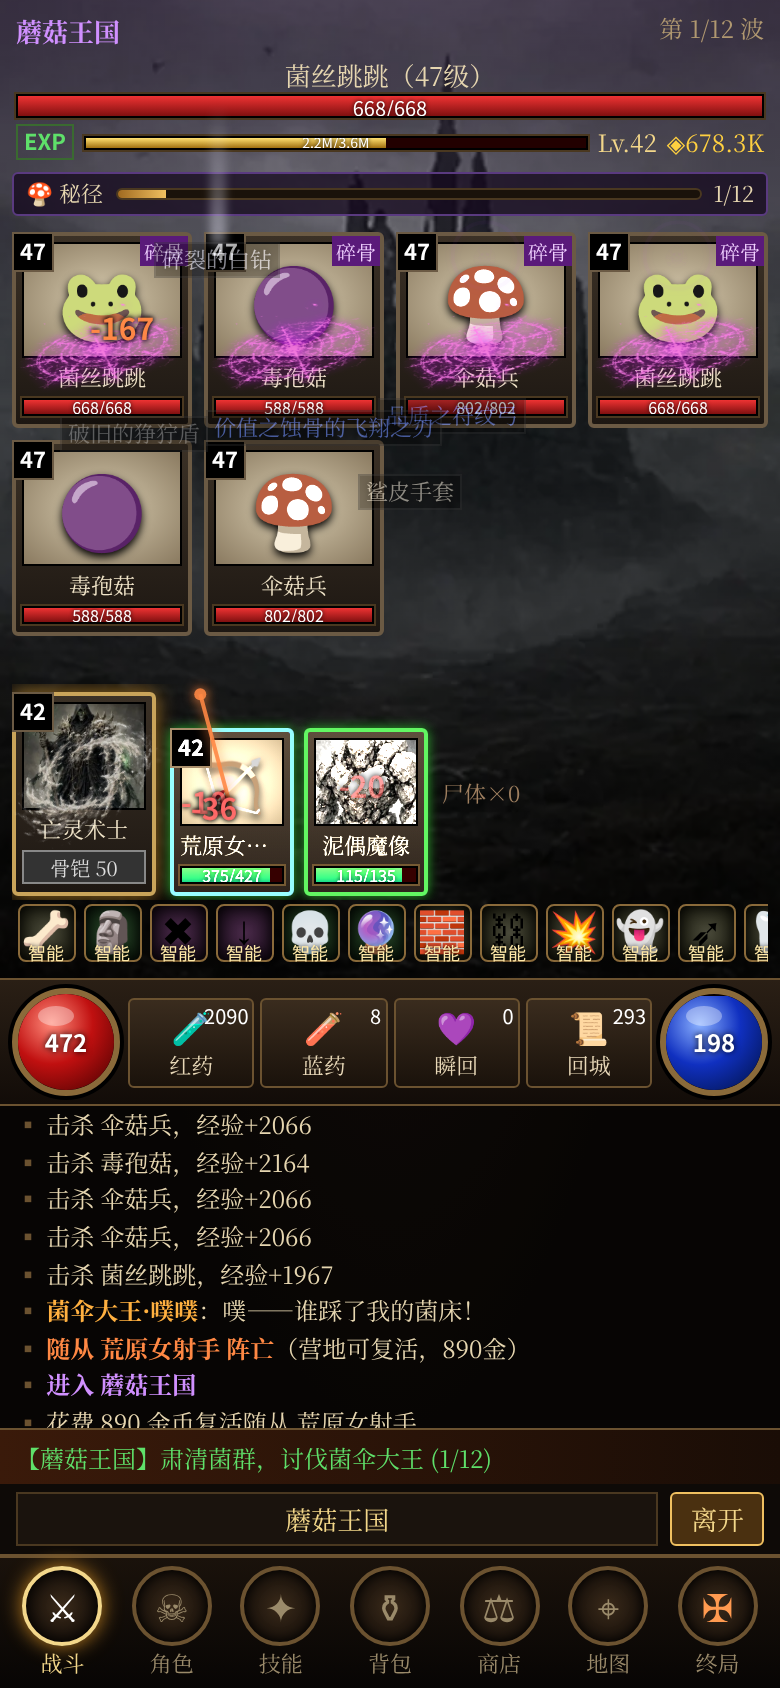
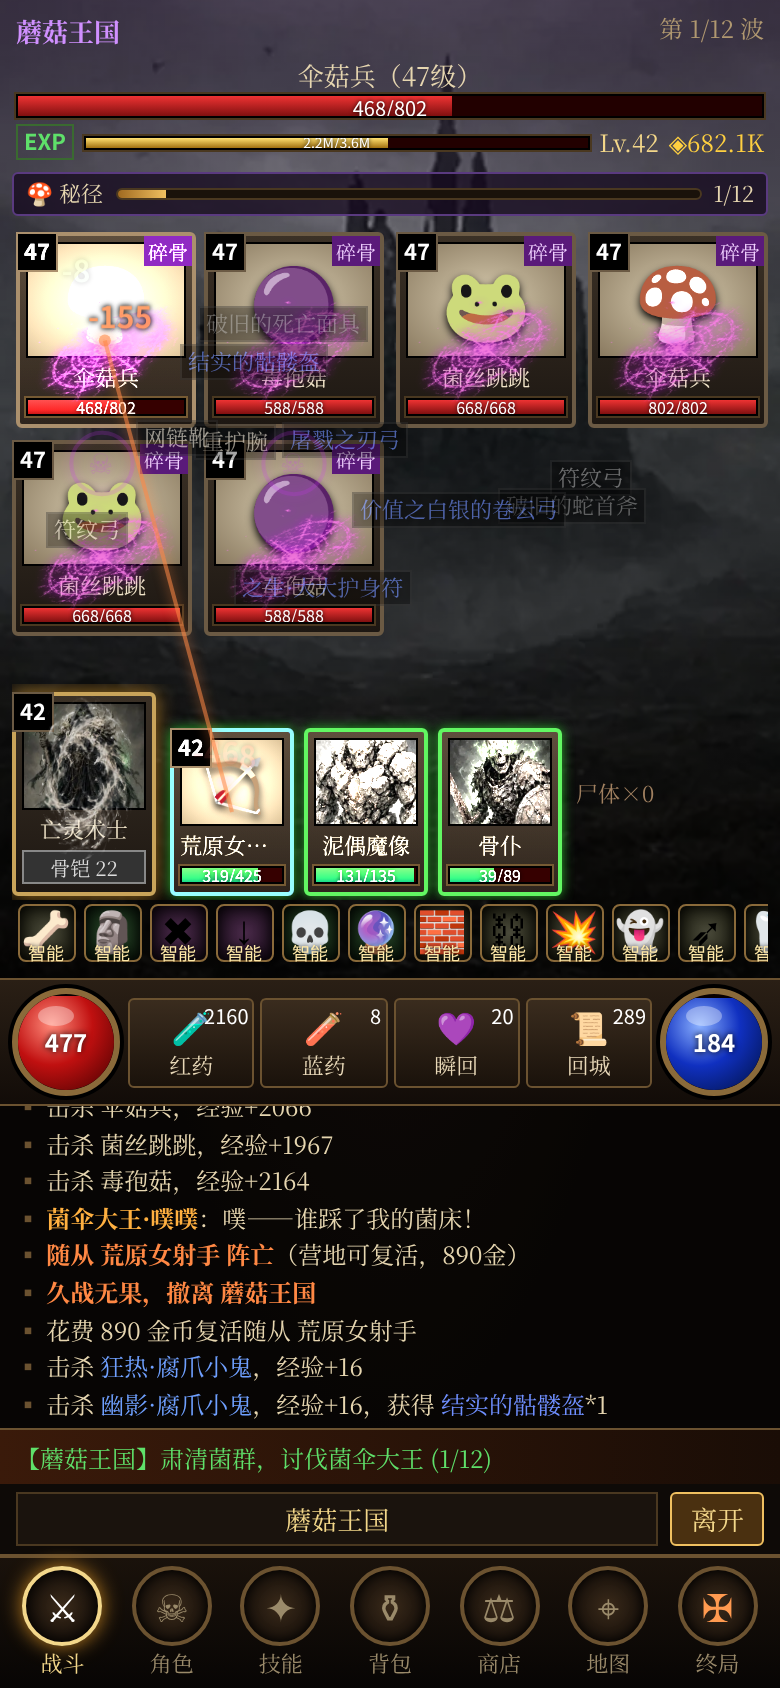
phase5-6b: 秘径阵亡重开当前波、特殊模式通用防卡死

diff --git a/eg_core.js b/eg_core.js
@@ -30,7 +30,9 @@ const _eg_goAct=goAct;goAct=function(a,d,q){if(EGM)egLeave(1);return _eg_goAct(a
 // 事件钩子（各子系统注册）
 const EG_HOOK={kill:[],clear:[],tick:[],sec:[],calc:[],pre:[],item:[],xp:[]};
 function egOn(k,f){EG_HOOK[k].push(f)}
-const _eg_killMon=killMon;killMon=function(m){const ctx={d:S.diff,a:S.act,z:S.zone,mode:EGM};_eg_killMon(m);egStat('kills');if(m.boss)egStat('boss');if(EGM&&EGM.onKill)EGM.onKill(m);for(const f of EG_HOOK.kill)f(m,ctx)};
+// 通用防卡死：特殊模式内 240 秒无击杀则离开
+egOn('sec',()=>{if(!EGM)return;const c=EG().clock;if(EGM._lk==null)EGM._lk=c;if(c-EGM._lk>240){log('<b style="color:#f84">久战无果，撤离 '+EGM.name+'</b>');egLeave(1)}});
+const _eg_killMon=killMon;killMon=function(m){const ctx={d:S.diff,a:S.act,z:S.zone,mode:EGM};_eg_killMon(m);egStat('kills');if(m.boss)egStat('boss');if(EGM){EGM._lk=EG().clock;if(EGM.onKill)EGM.onKill(m)}for(const f of EG_HOOK.kill)f(m,ctx)};
 const _eg_zoneClear=zoneClear;zoneClear=function(){const ctx={d:S.diff,a:S.act,z:S.zone};_eg_zoneClear();egStat('clears');for(const f of EG_HOOK.clear)f(ctx)};
 let EG_secT=0;
 const _eg_step=step;step=function(dt){_eg_step(dt);if(!S||!ST)return;const e=EG();e.clock+=dt;for(const f of EG_HOOK.tick)f(dt);EG_secT+=dt;if(EG_secT>=1){EG_secT=0;for(const f of EG_HOOK.sec)f()}};

diff --git a/shot_eg.py b/shot_eg.py
@@ -97,7 +97,7 @@ with sync_playwright() as p:
         r=run(pg,"(()=>{goAct(0,0,1);S.unl=Math.max(S.unl,8);S.auto=0;goZone(8);let t=0;while(!egSec().staff[0]&&t<3600){egSim(30);t+=30}return JSON.stringify({t,staff:egSec().staff})})()")
         print('staff',r)
         shot('p5_secret.png','eg',"EGT='secret'")
-        r=run(pg,"(()=>{const x0=S.xp,k0=S.kills,b0=S.bag.filter(i=>i.q===5).length;egSecretStart();const run=EGM;let t=0;while(EGM===run&&t<1800){egSim(5);t+=5}return JSON.stringify({t,won:!!run.won,kills:S.kills-k0,xp:S.xp-x0,uniq:S.bag.filter(i=>i.q===5).length-b0,king:egSec().king})})()")
+        r=run(pg,"(()=>{const x0=S.xp,k0=S.kills,b0=S.bag.filter(i=>i.q===5).length;egSecretStart();const run=EGM;let t=0;while(EGM===run&&t<1800){egSim(5);t+=5}return JSON.stringify({t,won:!!run.won,deaths:run.deaths||0,kills:S.kills-k0,xp:S.xp-x0,uniq:S.bag.filter(i=>i.q===5).length-b0,king:egSec().king})})()")
         print('secret run',r)
         run(pg,"SPEED=1;S.pot.tp+=1;egSecretStart()"); pg.wait_for_timeout(2500); shot('p5_secret_fight.png')
         run(pg,"EGM.w=11;MON=[];spawnT=0.1"); pg.wait_for_timeout(2000); shot('p5_secret_king.png')
